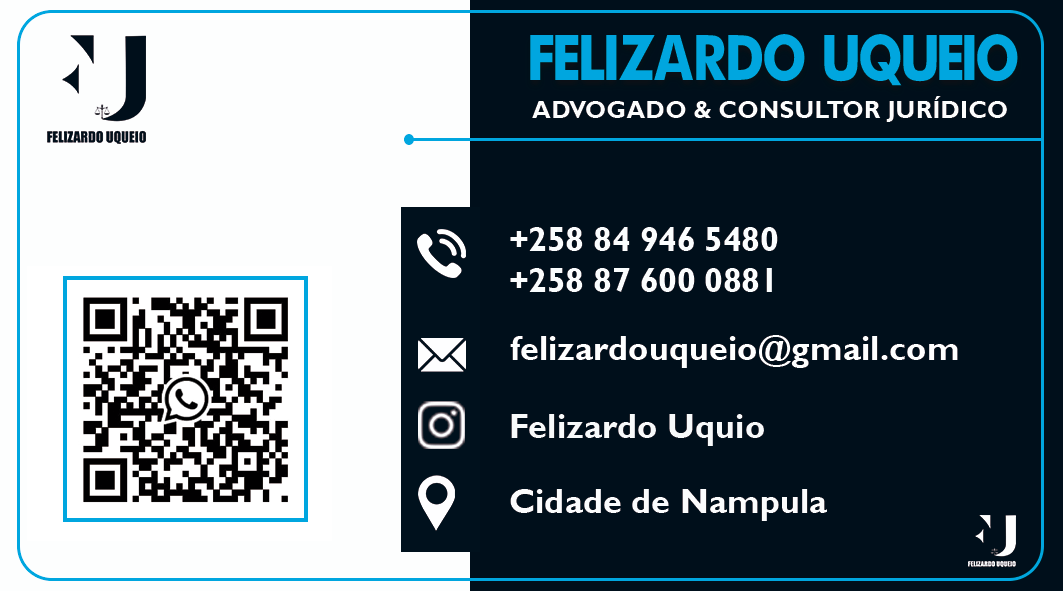
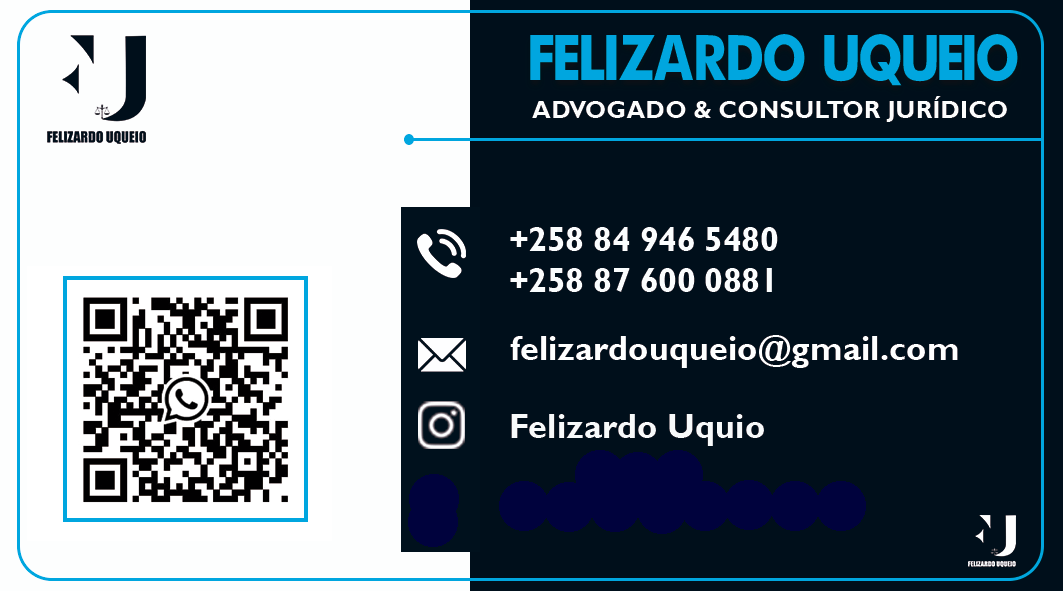
Corrigir a localização

Changed region(s): [[0.4657, 0.7614, 0.8382, 0.9137], [0.3725, 0.7919, 0.4346, 0.9442]]

diff --git a/index.html b/index.html
@@ -164,7 +164,7 @@
                         <div class="contact-icon">
                             <img src="static/imagens/location.png" alt="Localização" style="width: 24px; height: 24px;">
                         </div>
-                        <p>Cidade de Nampula, Moçambique</p>
+                        <p>Moçambique</p>
                     </div>
                     <a href="#" target="_blank" style="text-decoration: none; color: inherit;"> <!-- Substitua # pelo link do Instagram -->
                         <div class="contact-item">
